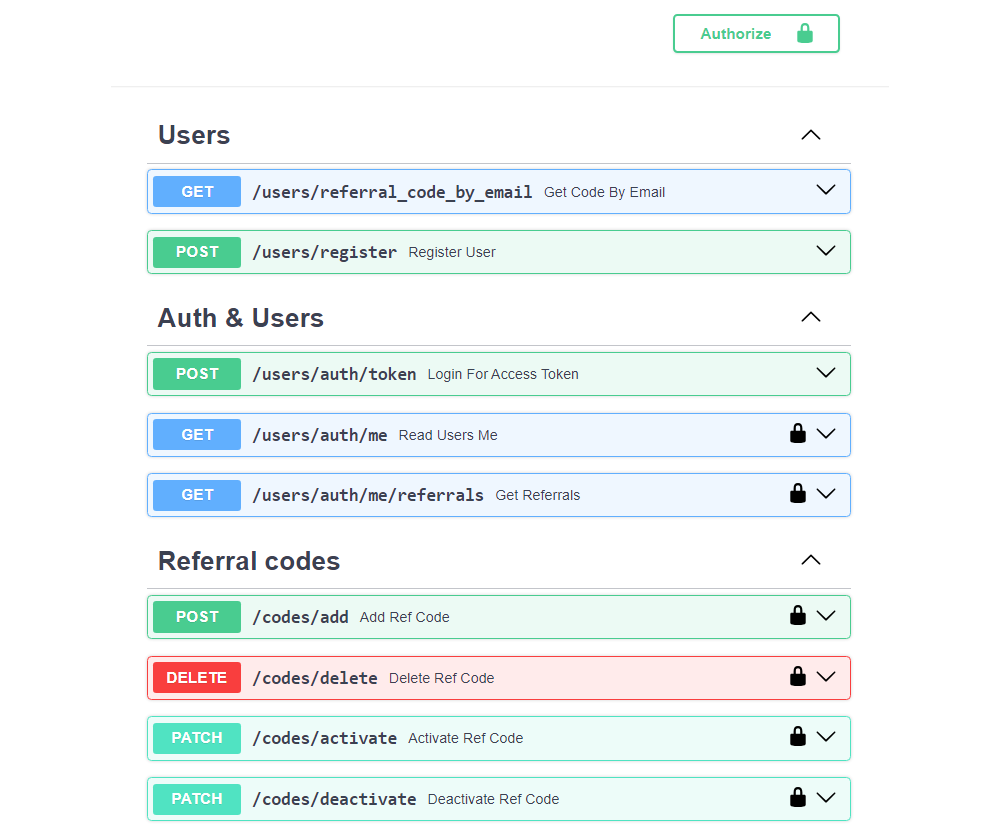
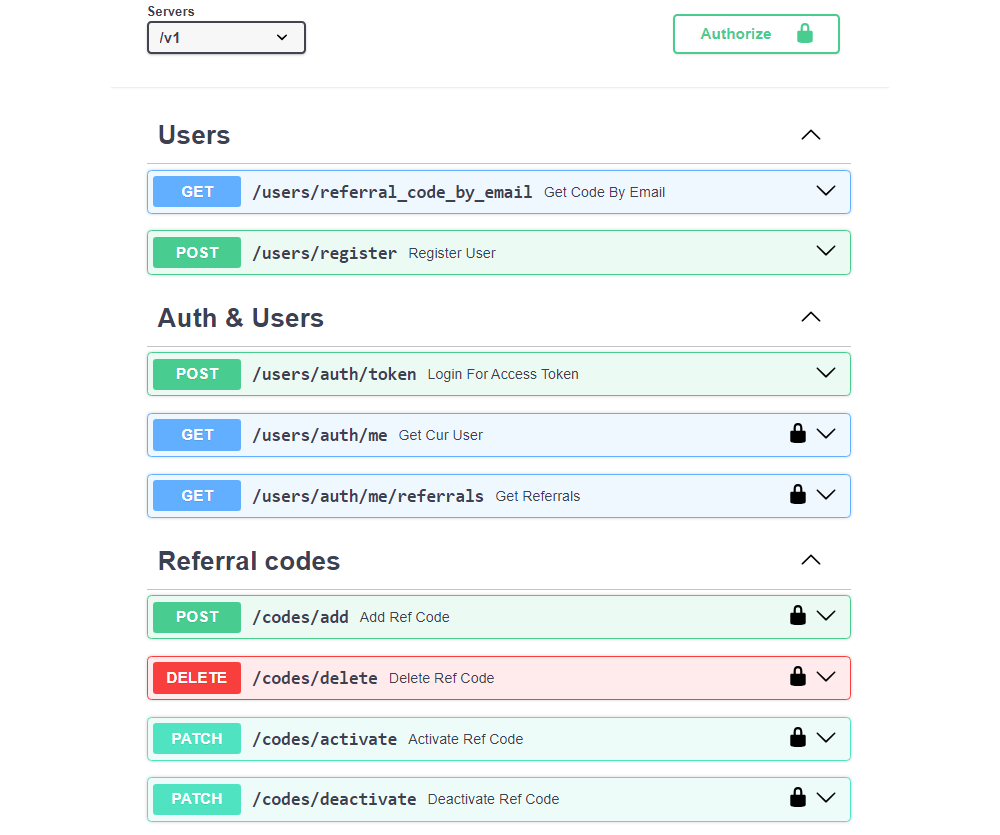
Versioned api

diff --git a/src/adapters/api/app.py b/src/adapters/api/app.py
@@ -4,6 +4,7 @@ from fastapi import FastAPI
 from fastapi.middleware.cors import CORSMiddleware
 from fastapi_cache import FastAPICache
 from fastapi_cache.backends.redis import RedisBackend
+from fastapi_versioning import VersionedFastAPI
 from redis import asyncio as aioredis
 
 from settings import AppSettings, RedisSettings, get_settings
@@ -26,10 +27,13 @@ async def _lifespan(app: FastAPI):  # noqa: ANN202, ARG001
 
 
 def create_app() -> FastAPI:
-    app = FastAPI(lifespan=_lifespan)
+    app = FastAPI(
+        title="Referral-FastAPI",
+        root_path="/api",
+    )
     _include_routers(app)
     _add_middlewares(app)
-    return app
+    return _versioned_fastapi(app)
 
 
 def _include_routers(app: FastAPI) -> None:
@@ -51,4 +55,14 @@ def _add_middlewares(app: FastAPI) -> None:
             "Access-Control-Allow-Origin",
             "Authorization",
         ],
+    )
+
+
+def _versioned_fastapi(app: FastAPI) -> FastAPI:
+    return VersionedFastAPI(
+        app,
+        lifespan=_lifespan,
+        enable_latest=True,
+        version_format="{major}",
+        prefix_format="/v{major}",
     )

diff --git a/src/adapters/api/routers/users.py b/src/adapters/api/routers/users.py
@@ -5,6 +5,7 @@ from typing import Annotated
 from fastapi import APIRouter, Depends
 from fastapi.security import OAuth2PasswordRequestForm
 from fastapi_cache.decorator import cache
+from fastapi_versioning import version
 from sqlalchemy.exc import IntegrityError
 
 from adapters.celery_t import send_referral_registration_to_referrer
@@ -49,6 +50,7 @@ async def get_code_by_email(email: str) -> SRCodeByEmail:
 
 
 @router_users.post("/register", response_model=SUserRegisterResponce)
+@version(1)
 async def register_user(user_data: SUserRegister) -> SUserRegisterResponce:
     hashed_password = get_password_hash(user_data.password)
     code_info = "Реферальный код не существует либо не активен"

diff --git a/src/adapters/api/routers/ref_codes.py b/src/adapters/api/routers/ref_codes.py
@@ -22,11 +22,6 @@ from exceptions import (
     RCodeGenLifetimeException,
 )
 
-# from dao import CodesDAO
-# from ..users.dependencies import get_current_user
-# from .codes import create_expiry_date, generate_ref_code, valid_ref_code_data
-# from .schemas import SRCode, SRCodeActivate, SRCodeCreate, SRCodeDeactivate
-
 router_ref_codes = APIRouter(prefix="/codes", tags=["Referral codes"])
 
 

diff --git a/README.md b/README.md
@@ -33,13 +33,13 @@
 ## Отличия от Booking-FastAPI
 https://github.com/Bllagden/Booking-FastAPI
 - Использование `JWT` и `Oauth 2.0` (в Booking-FastAPI `JWT` и `cookies`);
-- Улучшена работа сессий `SQLAlchemy` (их создание вынесено в отдельную функцию).
+- Улучшена работа сессий `SQLAlchemy` (их создание вынесено в отдельную функцию);
 - Улучшена структура проекта (добавлены директории `adapters` и `core`);
+- Внедрено версионирование API.
 
 
 ## Что можно доработать
 - Cистему авторизации (сейчас у всех аутентифицированных пользователей одинаковые права);
-- Внедрить версионирование API;
 - Полностью покрыть тестами.
 
 
@@ -149,7 +149,7 @@ print(b64encode(token_bytes(32)).decode())
 
 8) Доступ:
     
-    API: http://127.0.0.1:8000/docs
+    API: http://127.0.0.1:8000/v1/docs или http://127.0.0.1:8000/latest/docs
     <br />
     Flower: http://127.0.0.1:5555
 
@@ -177,7 +177,7 @@ print(b64encode(token_bytes(32)).decode())
 
 4) Доступ:
     
-    API: `http://YOUR_IP/docs`
+    API: `http://YOUR_IP/v1/docs` или `http://YOUR_IP/latest/docs`
     <br />
     Flower: `http://YOUR_IP/flower/`
 
